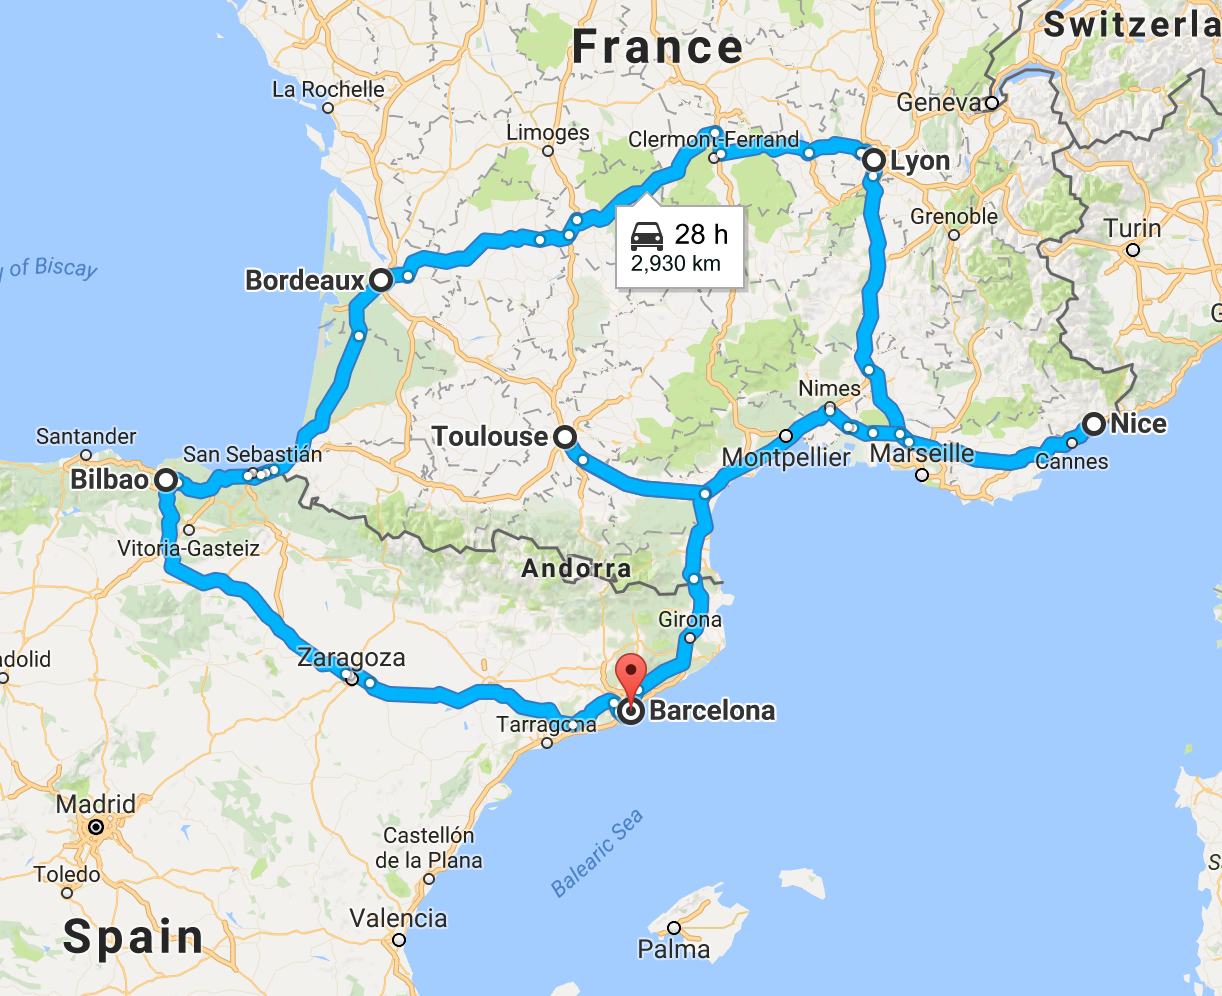
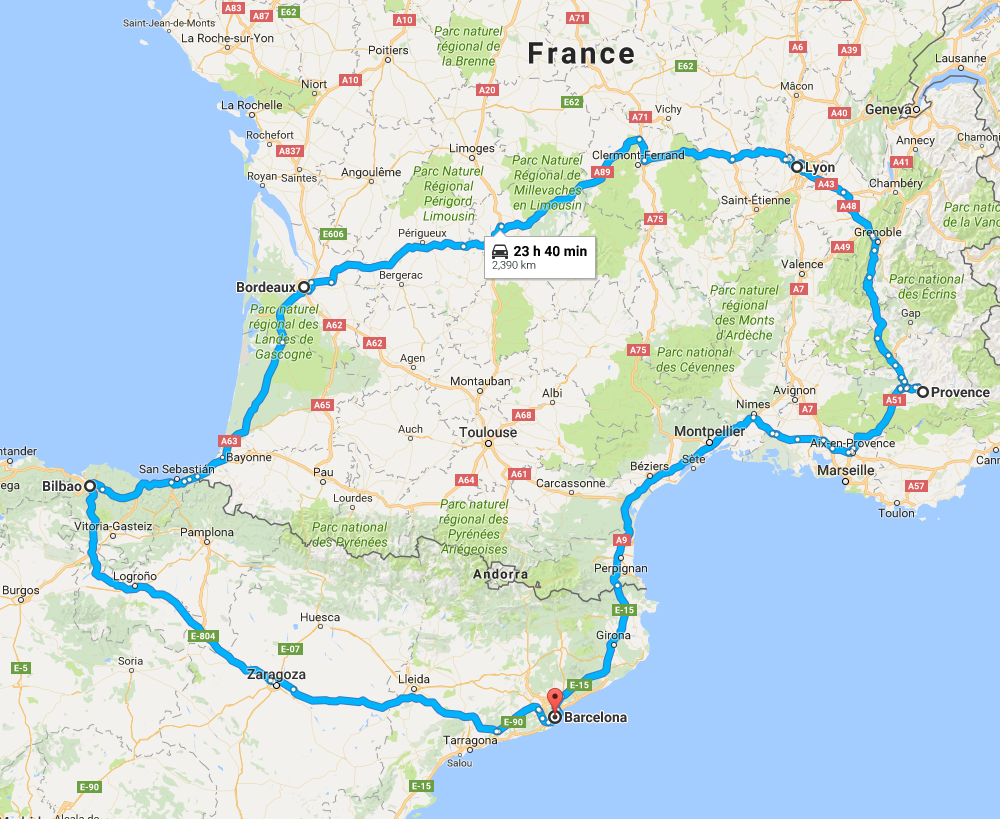
adjust post1

diff --git a/blog/public/2016/12/25/Viaje-Chicago-Barcelona-Parte-1/index.html b/blog/public/2016/12/25/Viaje-Chicago-Barcelona-Parte-1/index.html
@@ -12,7 +12,7 @@
 <meta property="og:site_name" content="jimmy.jumps">
 <meta property="og:description" content="Hace un par de días me reuní con un amigo que tenía varios años no veía, como parte de una buena reunión no pudieron faltar los shots de tequila y el alcohol desmesurado. Durante la noche mi amigo hiz">
 <meta property="og:image" content="http://yoursite.com/images/mapa.png">
-<meta property="og:updated_time" content="2017-01-01T23:03:23.000Z">
+<meta property="og:updated_time" content="2017-01-24T03:38:29.000Z">
 <meta name="twitter:card" content="summary">
 <meta name="twitter:title" content="Viaje Chicago - Barcelona (Parte 1)">
 <meta name="twitter:description" content="Hace un par de días me reuní con un amigo que tenía varios años no veía, como parte de una buena reunión no pudieron faltar los shots de tequila y el alcohol desmesurado. Durante la noche mi amigo hiz">
@@ -29,6 +29,7 @@
   <link rel="stylesheet" href="/css/style.css">
   
 
+  <script async src="//pagead2.googlesyndication.com/pagead/js/adsbygoogle.js"></script>
 </head>
 
 <body>
@@ -84,10 +85,9 @@
       
         <p>Hace un par de días me reuní con un amigo que tenía varios años no veía, como parte de una buena reunión no pudieron faltar los shots de tequila y el alcohol desmesurado. Durante la noche mi amigo hizo el comentario que se casaba en 3 meses y que yo estaba invitado (gracias alcohol por hacer que los amigos recuerden invitarte a su boda). El reto está en que él vive en Barcelona y yo en Chicago. Evidentemente como buen macho mexicano tuve que decir “ahuevo que sí wei”, y acompañado de un apretón de manos dí mi palabra de que ahí estaría como buen amigo que soy.</p>
 <p>Sin embargo actualmente ya tengo compañera de vida, por tanto la decisión no la puedo tomar desmesuradamente, así que como buen Ingeniero y aficionado de las finanzas comencé a realizar mi planificación de costos. Una vez que la realicé y ví los primeros números me dí cuenta que me saldría más económico verme como un mal amigo, sin embargo mi parte izquierda del cerebro respaldada de mi profesión como Ingeniero de Software me dijo, y por qué no pones un blog? tienes buena documentación, compártela, seguro le ayudará a más gente, le pones unos anuncios, unos referral links y con algo de suerte esos números se reducen lo suficiente para seguir siendo buen amigo.</p>
-<p>Así que si ya llegaste hasta esta línea por favor dale click a los anuncios que verás abajo, no importa que no te gusten, lo haces porque yo lo haré cuando tu pongas tu blog platicando la historia de lo que tuviste que hacer por tus amigos.</p>
-<p>[ ads ]</p>
+<p>Así que si ya llegaste hasta esta línea por favor dale click a los anuncios, no importa que no te gusten, lo haces porque yo lo haré cuando tu pongas tu blog platicando la historia de lo que tuviste que hacer por tus amigos.</p>
 <h2 id="Axiomas"><a href="#Axiomas" class="headerlink" title="Axiomas."></a>Axiomas.</h2><ul>
-<li>Mi amigo se casa el 4 de marzo en Barcelona.</li>
+<li>Mi amigo se casa en 3 meses en Barcelona.</li>
 <li>Yo vivo en Chicago, USA.</li>
 <li>No quiero ir únicamente a la boda.</li>
 <li>Puedo pedir vacaciones en el trabajo.</li>
@@ -95,28 +95,32 @@
 <li>Quiero gastar lo menos posible.</li>
 </ul>
 <h2 id="Idea"><a href="#Idea" class="headerlink" title="Idea."></a>Idea.</h2><p>Viajemos a Barcelona para la boda y aprovechando que ya dimos el brinco al charco rentemos un carro y pasemos días conociendo otras ciudades en los alrededores.</p>
-<p><img src="/images/mapa.png" alt="Viaje en Carro Barcelona, Bilbao, Bordeaux, Lyon, Nice y Toulousse."><br><a href="https://www.google.com/maps/dir/Barcelona,+Spain/Bilbao,+Spain/Bordeaux,+France/Lyon,+France/Nice,+France/Toulouse,+France/Barcelona,+Spain/@43.7466017,-3.0036479,6z/data=!4m44!4m43!1m5!1m1!1s0x12a49816718e30e5:0x44b0fb3d4f47660a!2m2!1d2.1734035!2d41.3850639!1m5!1m1!1s0xd4e4e27664b89b9:0x6534acc41e95a645!2m2!1d-2.9349852!2d43.2630126!1m5!1m1!1s0xd5527e8f751ca81:0x796386037b397a89!2m2!1d-0.57918!2d44.837789!1m5!1m1!1s0x47f4ea516ae88797:0x408ab2ae4bb21f0!2m2!1d4.835659!2d45.764043!1m5!1m1!1s0x12cdd0106a852d31:0x40819a5fd979a70!2m2!1d7.2619532!2d43.7101728!1m5!1m1!1s0x12aebb6fec7552ff:0x406f69c2f411030!2m2!1d1.444209!2d43.604652!1m5!1m1!1s0x12a49816718e30e5:0x44b0fb3d4f47660a!2m2!1d2.1734035!2d41.3850639!3e0?hl=en" title="Viaje en Carro Barcelona, Bilbao, Bordeaux, Lyon, Nice y Toulousse." target="_blank" rel="external">Ver en google maps</a></p>
+<p><img src="/images/mapa.png" alt="Viaje en Carro Barcelona, Bilbao, Bordeaux, Lyon y Provence."><br><a href="https://www.google.com/maps/dir/Barcelona,+Spain/Bilbao,+Spain/Bordeaux,+France/Lyon,+France/Provence,+France/Barcelona,+Spain/@43.6035796,-0.6060627,7z/data=!3m1!4b1!4m38!4m37!1m5!1m1!1s0x12a49816718e30e5:0x44b0fb3d4f47660a!2m2!1d2.1734035!2d41.3850639!1m5!1m1!1s0xd4e4e27664b89b9:0x6534acc41e95a645!2m2!1d-2.9349852!2d43.2630126!1m5!1m1!1s0xd5527e8f751ca81:0x796386037b397a89!2m2!1d-0.57918!2d44.837789!1m5!1m1!1s0x47f4ea516ae88797:0x408ab2ae4bb21f0!2m2!1d4.835659!2d45.764043!1m5!1m1!1s0x47f47fdfc9e0f5ad:0x44eefb3a98b5f62d!2m2!1d6.2116438!2d44.0144936!1m5!1m1!1s0x12a49816718e30e5:0x44b0fb3d4f47660a!2m2!1d2.1734035!2d41.3850639!3e0?hl=en" title="Viaje en Carro Barcelona, Bilbao, Bordeaux, Lyon y Provence." target="_blank" rel="external">Ver en google maps</a></p>
 <h2 id="Plan"><a href="#Plan" class="headerlink" title="Plan."></a>Plan.</h2><ul>
 <li>Pedir dos semanas de vacaciones.</li>
 <li>Viajar Chicago - Barcelona.</li>
 <li>Rentar carro en Barcelona y regresarlo en mismo lugar.</li>
-<li>Conocer 6 ciudades: Barcelona, Bilbao, Bordeaux, Lyon, Nice y Toulousse.</li>
+<li>Visitar 5 ciudades: Barcelona, Bilbao, Bordeaux, Lyon y Provence.</li>
 <li>Número de personas: 2.</li>
-<li>Costo total del viaje: <strong>5’700 dlls.</strong></li>
+<li>Presupuesto total del viaje: <strong>5’700 dlls.</strong></li>
 </ul>
-<h2 id="Itinerario"><a href="#Itinerario" class="headerlink" title="Itinerario"></a>Itinerario</h2><p>Existen dos Itinerarios de viaje:</p>
-<ul>
-<li>Itinerario A es dejar Barcelona para el final.</li>
-<li>Itinerario B es comenzar en Barcelona.</li>
-</ul>
-<p>Nota: El costo de ambos Itinerarios es prácticamente el mismo, sin embargo Itinerario B no incluye Toulousse.</p>
-<p>Continuar a Parte 2</p>
-<p>[ads]</p>
+<p>Continuar a Parte 2: Itinerario</p>
 
       
+
+      [ads]
+<ins class="adsbygoogle"
+     style="display:block"
+     data-ad-client="ca-pub-2643588035417760"
+     data-ad-slot="8651758334"
+     data-ad-format="auto"></ins>
+<script>
+(adsbygoogle = window.adsbygoogle || []).push({});
+</script>
+
     </div>
     <footer class="article-footer">
-      <a data-url="http://yoursite.com/2016/12/25/Viaje-Chicago-Barcelona-Parte-1/" data-id="cixfb8ios000121cdumm1bsuu" class="article-share-link">Share</a>
+      <a data-url="http://yoursite.com/2016/12/25/Viaje-Chicago-Barcelona-Parte-1/" data-id="ciyaz78o50001zucd9nvcm8si" class="article-share-link">Share</a>
       
       
     </footer>
@@ -139,6 +143,7 @@
 
   
 </article>
+
 
 </section>
         

diff --git a/blog/public/index.html b/blog/public/index.html
@@ -23,6 +23,7 @@
   <link rel="stylesheet" href="/css/style.css">
   
 
+  <script async src="//pagead2.googlesyndication.com/pagead/js/adsbygoogle.js"></script>
 </head>
 
 <body>
@@ -222,15 +223,27 @@
 <p>[ ads ]</p>
 
       
+
+      [ads]
+<ins class="adsbygoogle"
+     style="display:block"
+     data-ad-client="ca-pub-2643588035417760"
+     data-ad-slot="8651758334"
+     data-ad-format="auto"></ins>
+<script>
+(adsbygoogle = window.adsbygoogle || []).push({});
+</script>
+
     </div>
     <footer class="article-footer">
-      <a data-url="http://yoursite.com/2016/12/26/Viaje-Chicago-Barcelona-Itinerario-A-Parte-2/" data-id="cixfb8iom000021cdzoh8kt5e" class="article-share-link">Share</a>
+      <a data-url="http://yoursite.com/2016/12/26/Viaje-Chicago-Barcelona-Itinerario-A-Parte-2/" data-id="ciyaz78o00000zucdzdeakyqc" class="article-share-link">Share</a>
       
       
     </footer>
   </div>
   
 </article>
+
 
 
   
@@ -258,10 +271,9 @@
       
         <p>Hace un par de días me reuní con un amigo que tenía varios años no veía, como parte de una buena reunión no pudieron faltar los shots de tequila y el alcohol desmesurado. Durante la noche mi amigo hizo el comentario que se casaba en 3 meses y que yo estaba invitado (gracias alcohol por hacer que los amigos recuerden invitarte a su boda). El reto está en que él vive en Barcelona y yo en Chicago. Evidentemente como buen macho mexicano tuve que decir “ahuevo que sí wei”, y acompañado de un apretón de manos dí mi palabra de que ahí estaría como buen amigo que soy.</p>
 <p>Sin embargo actualmente ya tengo compañera de vida, por tanto la decisión no la puedo tomar desmesuradamente, así que como buen Ingeniero y aficionado de las finanzas comencé a realizar mi planificación de costos. Una vez que la realicé y ví los primeros números me dí cuenta que me saldría más económico verme como un mal amigo, sin embargo mi parte izquierda del cerebro respaldada de mi profesión como Ingeniero de Software me dijo, y por qué no pones un blog? tienes buena documentación, compártela, seguro le ayudará a más gente, le pones unos anuncios, unos referral links y con algo de suerte esos números se reducen lo suficiente para seguir siendo buen amigo.</p>
-<p>Así que si ya llegaste hasta esta línea por favor dale click a los anuncios que verás abajo, no importa que no te gusten, lo haces porque yo lo haré cuando tu pongas tu blog platicando la historia de lo que tuviste que hacer por tus amigos.</p>
-<p>[ ads ]</p>
+<p>Así que si ya llegaste hasta esta línea por favor dale click a los anuncios, no importa que no te gusten, lo haces porque yo lo haré cuando tu pongas tu blog platicando la historia de lo que tuviste que hacer por tus amigos.</p>
 <h2 id="Axiomas"><a href="#Axiomas" class="headerlink" title="Axiomas."></a>Axiomas.</h2><ul>
-<li>Mi amigo se casa el 4 de marzo en Barcelona.</li>
+<li>Mi amigo se casa en 3 meses en Barcelona.</li>
 <li>Yo vivo en Chicago, USA.</li>
 <li>No quiero ir únicamente a la boda.</li>
 <li>Puedo pedir vacaciones en el trabajo.</li>
@@ -269,34 +281,39 @@
 <li>Quiero gastar lo menos posible.</li>
 </ul>
 <h2 id="Idea"><a href="#Idea" class="headerlink" title="Idea."></a>Idea.</h2><p>Viajemos a Barcelona para la boda y aprovechando que ya dimos el brinco al charco rentemos un carro y pasemos días conociendo otras ciudades en los alrededores.</p>
-<p><img src="/images/mapa.png" alt="Viaje en Carro Barcelona, Bilbao, Bordeaux, Lyon, Nice y Toulousse."><br><a href="https://www.google.com/maps/dir/Barcelona,+Spain/Bilbao,+Spain/Bordeaux,+France/Lyon,+France/Nice,+France/Toulouse,+France/Barcelona,+Spain/@43.7466017,-3.0036479,6z/data=!4m44!4m43!1m5!1m1!1s0x12a49816718e30e5:0x44b0fb3d4f47660a!2m2!1d2.1734035!2d41.3850639!1m5!1m1!1s0xd4e4e27664b89b9:0x6534acc41e95a645!2m2!1d-2.9349852!2d43.2630126!1m5!1m1!1s0xd5527e8f751ca81:0x796386037b397a89!2m2!1d-0.57918!2d44.837789!1m5!1m1!1s0x47f4ea516ae88797:0x408ab2ae4bb21f0!2m2!1d4.835659!2d45.764043!1m5!1m1!1s0x12cdd0106a852d31:0x40819a5fd979a70!2m2!1d7.2619532!2d43.7101728!1m5!1m1!1s0x12aebb6fec7552ff:0x406f69c2f411030!2m2!1d1.444209!2d43.604652!1m5!1m1!1s0x12a49816718e30e5:0x44b0fb3d4f47660a!2m2!1d2.1734035!2d41.3850639!3e0?hl=en" title="Viaje en Carro Barcelona, Bilbao, Bordeaux, Lyon, Nice y Toulousse." target="_blank" rel="external">Ver en google maps</a></p>
+<p><img src="/images/mapa.png" alt="Viaje en Carro Barcelona, Bilbao, Bordeaux, Lyon y Provence."><br><a href="https://www.google.com/maps/dir/Barcelona,+Spain/Bilbao,+Spain/Bordeaux,+France/Lyon,+France/Provence,+France/Barcelona,+Spain/@43.6035796,-0.6060627,7z/data=!3m1!4b1!4m38!4m37!1m5!1m1!1s0x12a49816718e30e5:0x44b0fb3d4f47660a!2m2!1d2.1734035!2d41.3850639!1m5!1m1!1s0xd4e4e27664b89b9:0x6534acc41e95a645!2m2!1d-2.9349852!2d43.2630126!1m5!1m1!1s0xd5527e8f751ca81:0x796386037b397a89!2m2!1d-0.57918!2d44.837789!1m5!1m1!1s0x47f4ea516ae88797:0x408ab2ae4bb21f0!2m2!1d4.835659!2d45.764043!1m5!1m1!1s0x47f47fdfc9e0f5ad:0x44eefb3a98b5f62d!2m2!1d6.2116438!2d44.0144936!1m5!1m1!1s0x12a49816718e30e5:0x44b0fb3d4f47660a!2m2!1d2.1734035!2d41.3850639!3e0?hl=en" title="Viaje en Carro Barcelona, Bilbao, Bordeaux, Lyon y Provence." target="_blank" rel="external">Ver en google maps</a></p>
 <h2 id="Plan"><a href="#Plan" class="headerlink" title="Plan."></a>Plan.</h2><ul>
 <li>Pedir dos semanas de vacaciones.</li>
 <li>Viajar Chicago - Barcelona.</li>
 <li>Rentar carro en Barcelona y regresarlo en mismo lugar.</li>
-<li>Conocer 6 ciudades: Barcelona, Bilbao, Bordeaux, Lyon, Nice y Toulousse.</li>
+<li>Visitar 5 ciudades: Barcelona, Bilbao, Bordeaux, Lyon y Provence.</li>
 <li>Número de personas: 2.</li>
-<li>Costo total del viaje: <strong>5’700 dlls.</strong></li>
+<li>Presupuesto total del viaje: <strong>5’700 dlls.</strong></li>
 </ul>
-<h2 id="Itinerario"><a href="#Itinerario" class="headerlink" title="Itinerario"></a>Itinerario</h2><p>Existen dos Itinerarios de viaje:</p>
-<ul>
-<li>Itinerario A es dejar Barcelona para el final.</li>
-<li>Itinerario B es comenzar en Barcelona.</li>
-</ul>
-<p>Nota: El costo de ambos Itinerarios es prácticamente el mismo, sin embargo Itinerario B no incluye Toulousse.</p>
-<p>Continuar a Parte 2</p>
-<p>[ads]</p>
+<p>Continuar a Parte 2: Itinerario</p>
 
       
+
+      [ads]
+<ins class="adsbygoogle"
+     style="display:block"
+     data-ad-client="ca-pub-2643588035417760"
+     data-ad-slot="8651758334"
+     data-ad-format="auto"></ins>
+<script>
+(adsbygoogle = window.adsbygoogle || []).push({});
+</script>
+
     </div>
     <footer class="article-footer">
-      <a data-url="http://yoursite.com/2016/12/25/Viaje-Chicago-Barcelona-Parte-1/" data-id="cixfb8ios000121cdumm1bsuu" class="article-share-link">Share</a>
+      <a data-url="http://yoursite.com/2016/12/25/Viaje-Chicago-Barcelona-Parte-1/" data-id="ciyaz78o50001zucd9nvcm8si" class="article-share-link">Share</a>
       
       
     </footer>
   </div>
   
 </article>
+
 
 
   

diff --git a/blog/public/2016/12/26/Viaje-Chicago-Barcelona-Itinerario-A-Parte-2/index.html b/blog/public/2016/12/26/Viaje-Chicago-Barcelona-Itinerario-A-Parte-2/index.html
@@ -51,6 +51,7 @@ Llega">
   <link rel="stylesheet" href="/css/style.css">
   
 
+  <script async src="//pagead2.googlesyndication.com/pagead/js/adsbygoogle.js"></script>
 </head>
 
 <body>
@@ -248,9 +249,20 @@ Llega">
 <p>[ ads ]</p>
 
       
+
+      [ads]
+<ins class="adsbygoogle"
+     style="display:block"
+     data-ad-client="ca-pub-2643588035417760"
+     data-ad-slot="8651758334"
+     data-ad-format="auto"></ins>
+<script>
+(adsbygoogle = window.adsbygoogle || []).push({});
+</script>
+
     </div>
     <footer class="article-footer">
-      <a data-url="http://yoursite.com/2016/12/26/Viaje-Chicago-Barcelona-Itinerario-A-Parte-2/" data-id="cixfb8iom000021cdzoh8kt5e" class="article-share-link">Share</a>
+      <a data-url="http://yoursite.com/2016/12/26/Viaje-Chicago-Barcelona-Itinerario-A-Parte-2/" data-id="ciyaz78o00000zucdzdeakyqc" class="article-share-link">Share</a>
       
       
     </footer>
@@ -269,6 +281,7 @@ Llega">
 
   
 </article>
+
 
 </section>
         

diff --git a/blog/public/archives/2016/12/index.html b/blog/public/archives/2016/12/index.html
@@ -23,6 +23,7 @@
   <link rel="stylesheet" href="/css/style.css">
   
 
+  <script async src="//pagead2.googlesyndication.com/pagead/js/adsbygoogle.js"></script>
 </head>
 
 <body>

diff --git a/blog/public/archives/2016/index.html b/blog/public/archives/2016/index.html
@@ -23,6 +23,7 @@
   <link rel="stylesheet" href="/css/style.css">
   
 
+  <script async src="//pagead2.googlesyndication.com/pagead/js/adsbygoogle.js"></script>
 </head>
 
 <body>

diff --git a/blog/public/archives/index.html b/blog/public/archives/index.html
@@ -23,6 +23,7 @@
   <link rel="stylesheet" href="/css/style.css">
   
 
+  <script async src="//pagead2.googlesyndication.com/pagead/js/adsbygoogle.js"></script>
 </head>
 
 <body>

diff --git a/blog/source/_posts/Viaje-Chicago-Barcelona-Parte-1.md b/blog/source/_posts/Viaje-Chicago-Barcelona-Parte-1.md
@@ -7,14 +7,11 @@ Hace un par de días me reuní con un amigo que tenía varios años no veía, co
 
 Sin embargo actualmente ya tengo compañera de vida, por tanto la decisión no la puedo tomar desmesuradamente, así que como buen Ingeniero y aficionado de las finanzas comencé a realizar mi planificación de costos. Una vez que la realicé y ví los primeros números me dí cuenta que me saldría más económico verme como un mal amigo, sin embargo mi parte izquierda del cerebro respaldada de mi profesión como Ingeniero de Software me dijo, y por qué no pones un blog? tienes buena documentación, compártela, seguro le ayudará a más gente, le pones unos anuncios, unos referral links y con algo de suerte esos números se reducen lo suficiente para seguir siendo buen amigo.
 
-Así que si ya llegaste hasta esta línea por favor dale click a los anuncios que verás abajo, no importa que no te gusten, lo haces porque yo lo haré cuando tu pongas tu blog platicando la historia de lo que tuviste que hacer por tus amigos.
-
-[ ads ]
-
+Así que si ya llegaste hasta esta línea por favor dale click a los anuncios, no importa que no te gusten, lo haces porque yo lo haré cuando tu pongas tu blog platicando la historia de lo que tuviste que hacer por tus amigos.
 
 ## Axiomas.
 
-- Mi amigo se casa el 4 de marzo en Barcelona.
+- Mi amigo se casa en 3 meses en Barcelona.
 - Yo vivo en Chicago, USA.
 - No quiero ir únicamente a la boda.
 - Puedo pedir vacaciones en el trabajo.
@@ -25,28 +22,16 @@ Así que si ya llegaste hasta esta línea por favor dale click a los anuncios qu
 
 Viajemos a Barcelona para la boda y aprovechando que ya dimos el brinco al charco rentemos un carro y pasemos días conociendo otras ciudades en los alrededores.
 
-![Viaje en Carro Barcelona, Bilbao, Bordeaux, Lyon, Nice y Toulousse.](/images/mapa.png)
-[Ver en google maps](https://www.google.com/maps/dir/Barcelona,+Spain/Bilbao,+Spain/Bordeaux,+France/Lyon,+France/Nice,+France/Toulouse,+France/Barcelona,+Spain/@43.7466017,-3.0036479,6z/data=!4m44!4m43!1m5!1m1!1s0x12a49816718e30e5:0x44b0fb3d4f47660a!2m2!1d2.1734035!2d41.3850639!1m5!1m1!1s0xd4e4e27664b89b9:0x6534acc41e95a645!2m2!1d-2.9349852!2d43.2630126!1m5!1m1!1s0xd5527e8f751ca81:0x796386037b397a89!2m2!1d-0.57918!2d44.837789!1m5!1m1!1s0x47f4ea516ae88797:0x408ab2ae4bb21f0!2m2!1d4.835659!2d45.764043!1m5!1m1!1s0x12cdd0106a852d31:0x40819a5fd979a70!2m2!1d7.2619532!2d43.7101728!1m5!1m1!1s0x12aebb6fec7552ff:0x406f69c2f411030!2m2!1d1.444209!2d43.604652!1m5!1m1!1s0x12a49816718e30e5:0x44b0fb3d4f47660a!2m2!1d2.1734035!2d41.3850639!3e0?hl=en "Viaje en Carro Barcelona, Bilbao, Bordeaux, Lyon, Nice y Toulousse.")
+![Viaje en Carro Barcelona, Bilbao, Bordeaux, Lyon y Provence.](/images/mapa.png)
+[Ver en google maps](https://www.google.com/maps/dir/Barcelona,+Spain/Bilbao,+Spain/Bordeaux,+France/Lyon,+France/Provence,+France/Barcelona,+Spain/@43.6035796,-0.6060627,7z/data=!3m1!4b1!4m38!4m37!1m5!1m1!1s0x12a49816718e30e5:0x44b0fb3d4f47660a!2m2!1d2.1734035!2d41.3850639!1m5!1m1!1s0xd4e4e27664b89b9:0x6534acc41e95a645!2m2!1d-2.9349852!2d43.2630126!1m5!1m1!1s0xd5527e8f751ca81:0x796386037b397a89!2m2!1d-0.57918!2d44.837789!1m5!1m1!1s0x47f4ea516ae88797:0x408ab2ae4bb21f0!2m2!1d4.835659!2d45.764043!1m5!1m1!1s0x47f47fdfc9e0f5ad:0x44eefb3a98b5f62d!2m2!1d6.2116438!2d44.0144936!1m5!1m1!1s0x12a49816718e30e5:0x44b0fb3d4f47660a!2m2!1d2.1734035!2d41.3850639!3e0?hl=en "Viaje en Carro Barcelona, Bilbao, Bordeaux, Lyon y Provence.")
 
 ## Plan.
 
 - Pedir dos semanas de vacaciones.
 - Viajar Chicago - Barcelona.
 - Rentar carro en Barcelona y regresarlo en mismo lugar.
-- Conocer 6 ciudades: Barcelona, Bilbao, Bordeaux, Lyon, Nice y Toulousse.
+- Visitar 5 ciudades: Barcelona, Bilbao, Bordeaux, Lyon y Provence.
 - Número de personas: 2.
-- Costo total del viaje: **5'700 dlls.**
+- Presupuesto total del viaje: **5'700 dlls.**
 
-
-## Itinerario
-
-Existen dos Itinerarios de viaje:
-
-- Itinerario A es dejar Barcelona para el final.
-- Itinerario B es comenzar en Barcelona.
-
-Nota: El costo de ambos Itinerarios es prácticamente el mismo, sin embargo Itinerario B no incluye Toulousse.
-
-Continuar a Parte 2
-
-[ads]
+Continuar a Parte 2: Itinerario
